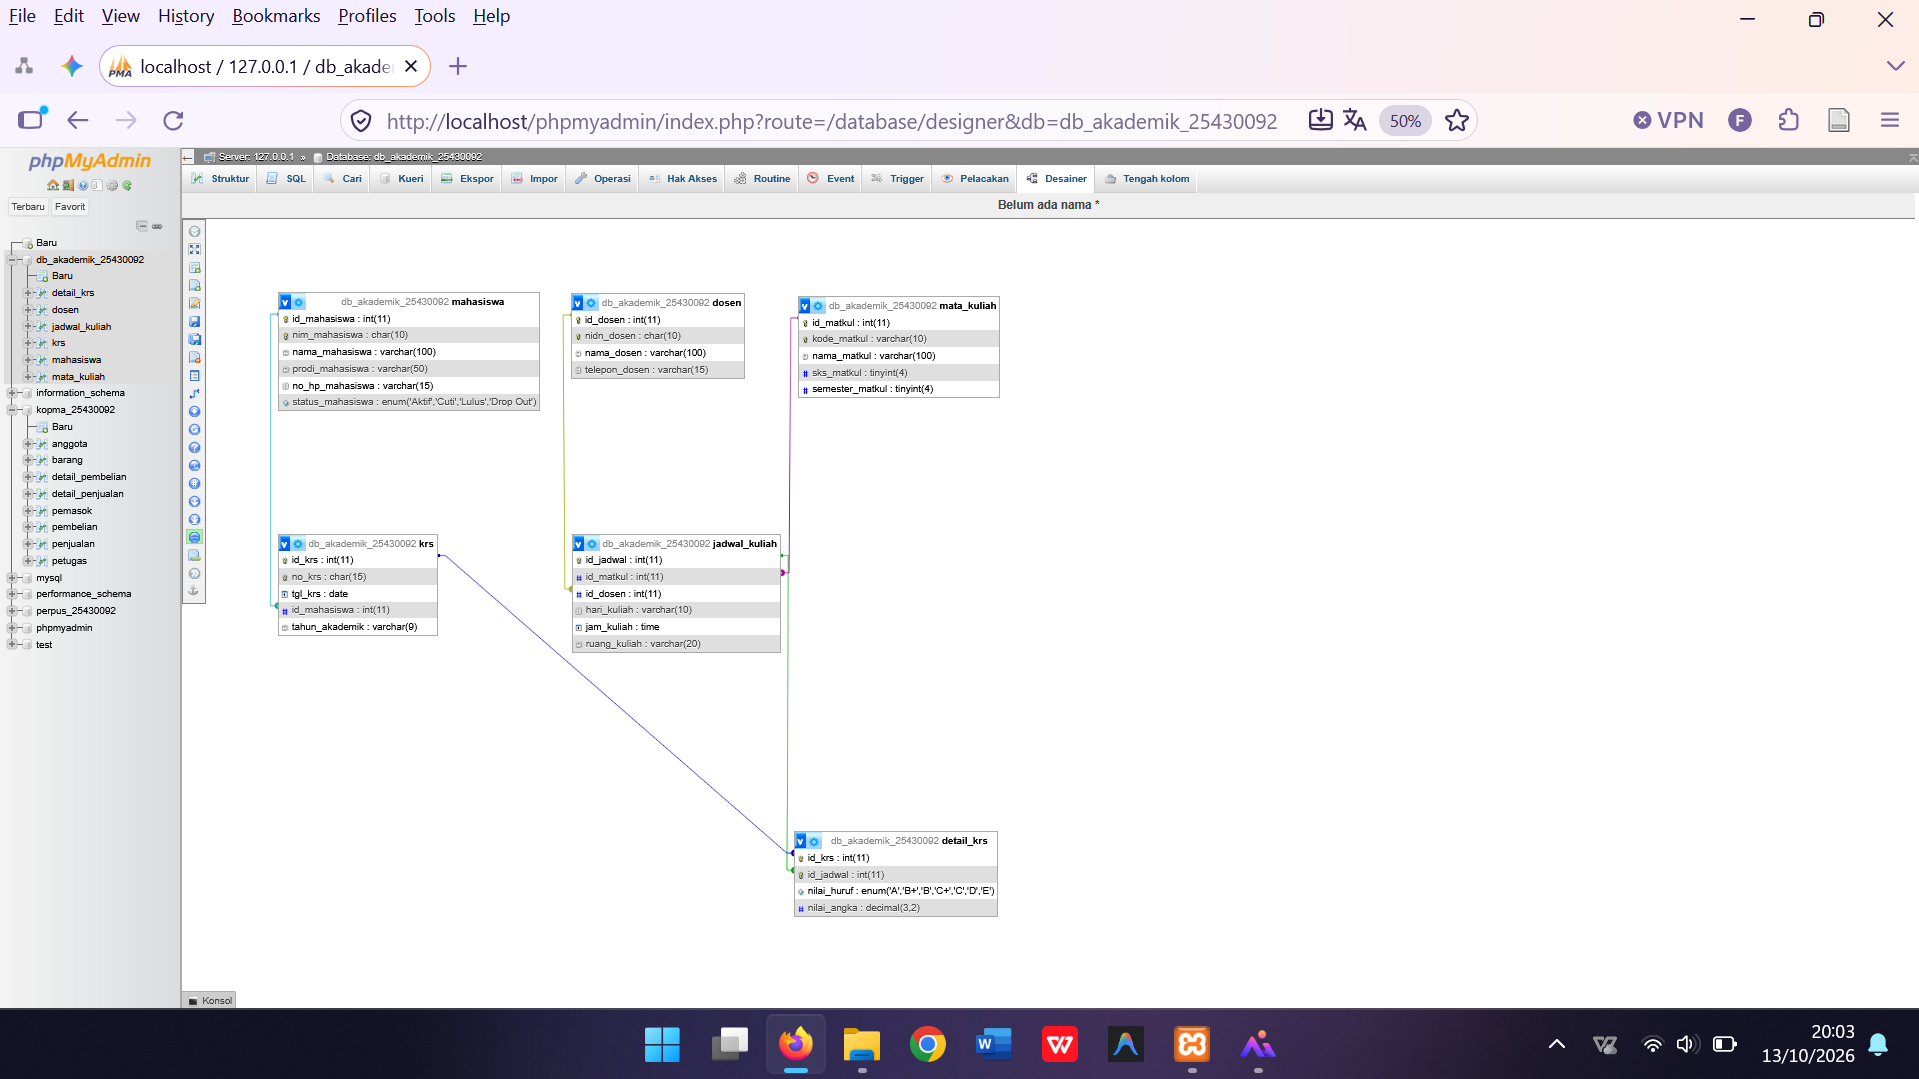
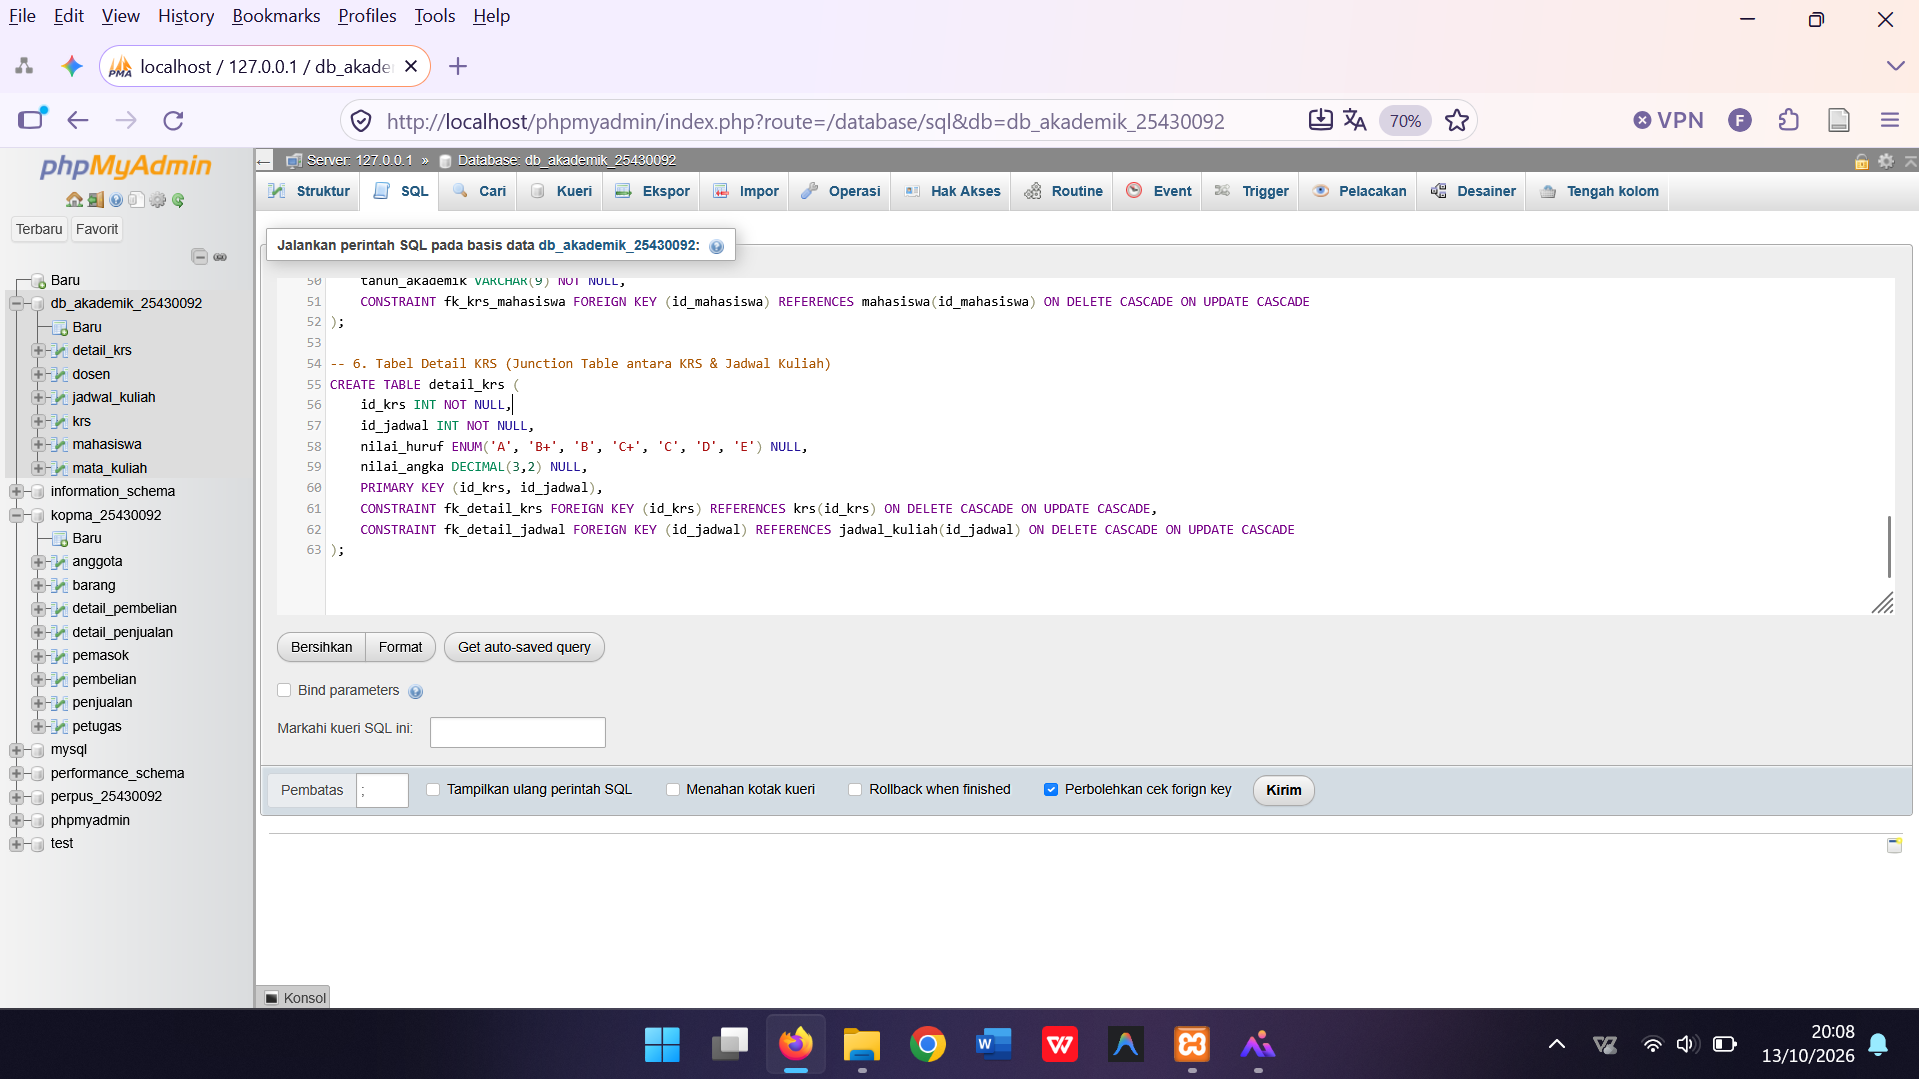
p03: finalisasi laporan modul 3 dengan draw.io dan dokumentasi lengkap

diff --git a/laporan/p03_laporan_25430092.md b/laporan/p03_laporan_25430092.md
@@ -39,17 +39,24 @@ Basis data fisik yang dibangun dinamakan `db_akademik_25430092` yang terdiri dar
 
 ## 4. Dokumentasi Implementasi Fisik & Visualisasi
 
-### A. Physical Entity Relationship Diagram (ERD)
-Berikut adalah diagram ERD fisik yang menggambarkan struktur tabel, atribut, kunci primer/asing, serta kardinalitas antar entitas:
+### A. Perancangan & Pengeditan ERD di Draw.io
+Tahap awal perancangan struktur skema relasional entitas sistem akademik digambar dan disesuaikan menggunakan aplikasi diagram **draw.io**:
 
-![Physical ERD Akademik](../assets/gambar-1.png)
+![Pengeditan ERD di Draw.io](../assets/gambar-1.jpg)
 
 ---
 
-### B. Eksekusi Script SQL DDL di phpMyAdmin
+### B. Physical Entity Relationship Diagram (ERD) Final
+Berikut adalah hasil akhir diagram ERD fisik yang menggambarkan struktur tabel, atribut, kunci primer/asing, serta kardinalitas antar entitas:
+
+![Physical ERD Akademik](../assets/gambar-2.png)
+
+---
+
+### C. Eksekusi Script SQL DDL di phpMyAdmin
 Penerapan perintah *Data Definition Language* (DDL) untuk pembuatan basis data dan tabel secara presisi di antarmuka SQL phpMyAdmin:
 
-![Eksekusi SQL DDL di phpMyAdmin](../assets/gambar-2.jpg)
+![Eksekusi SQL DDL di phpMyAdmin](../assets/gambar-3.jpg)
 
 **Script SQL DDL Lengkap:**
 ```sql
